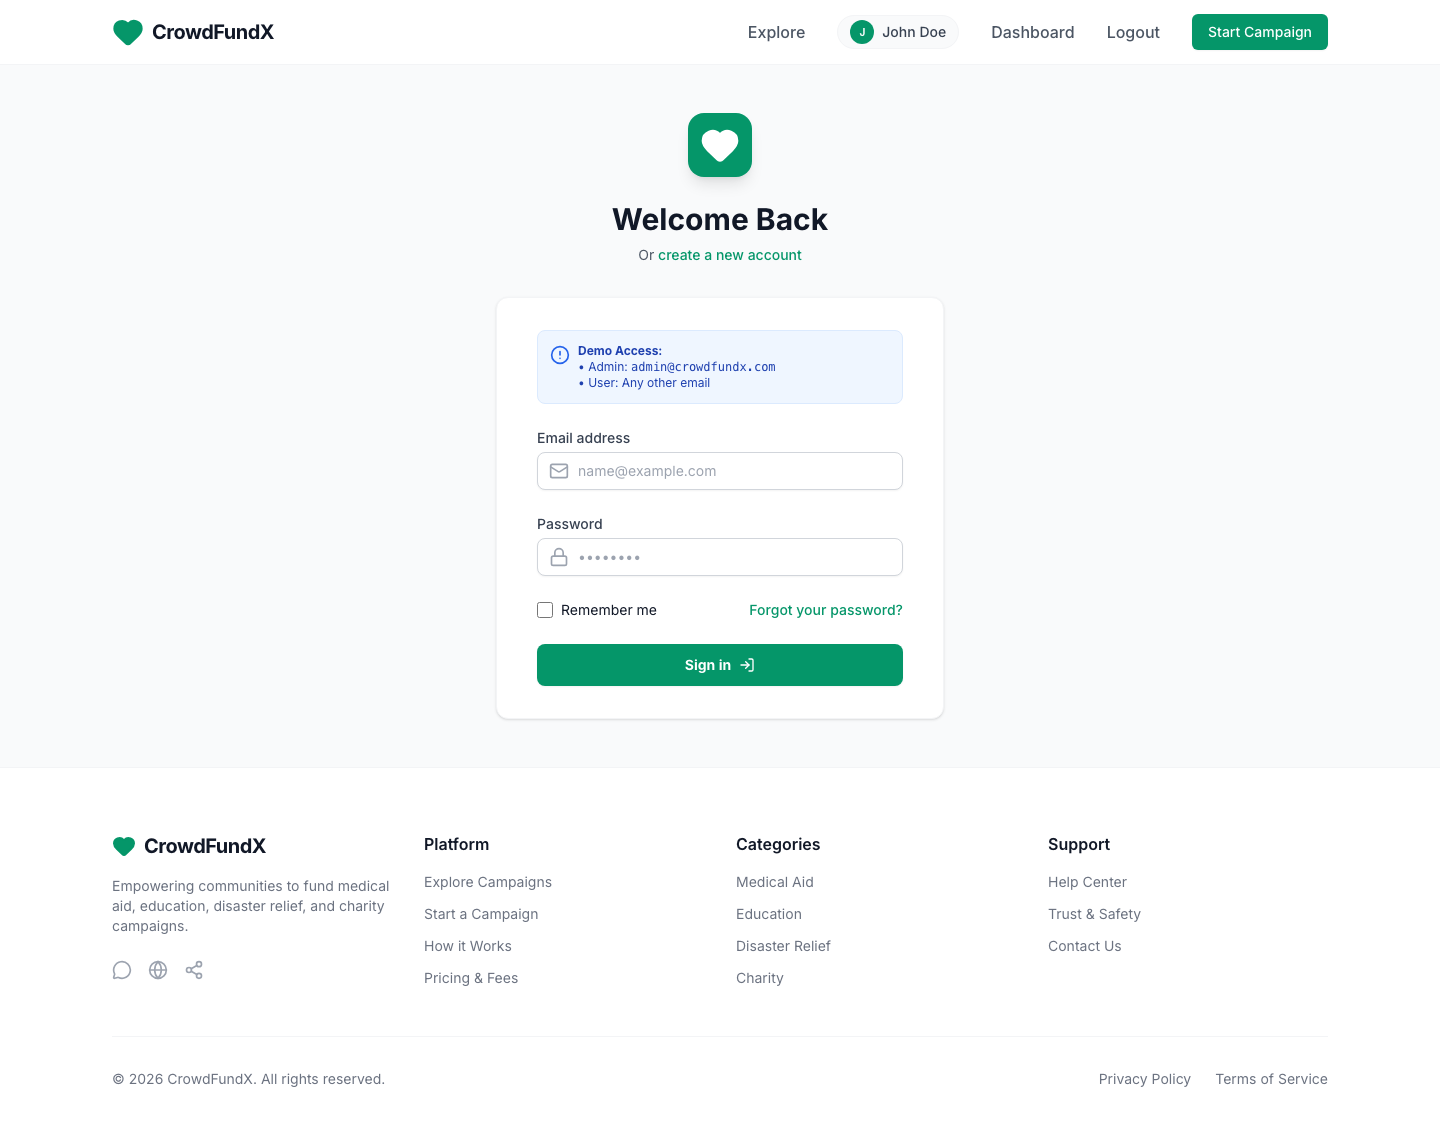
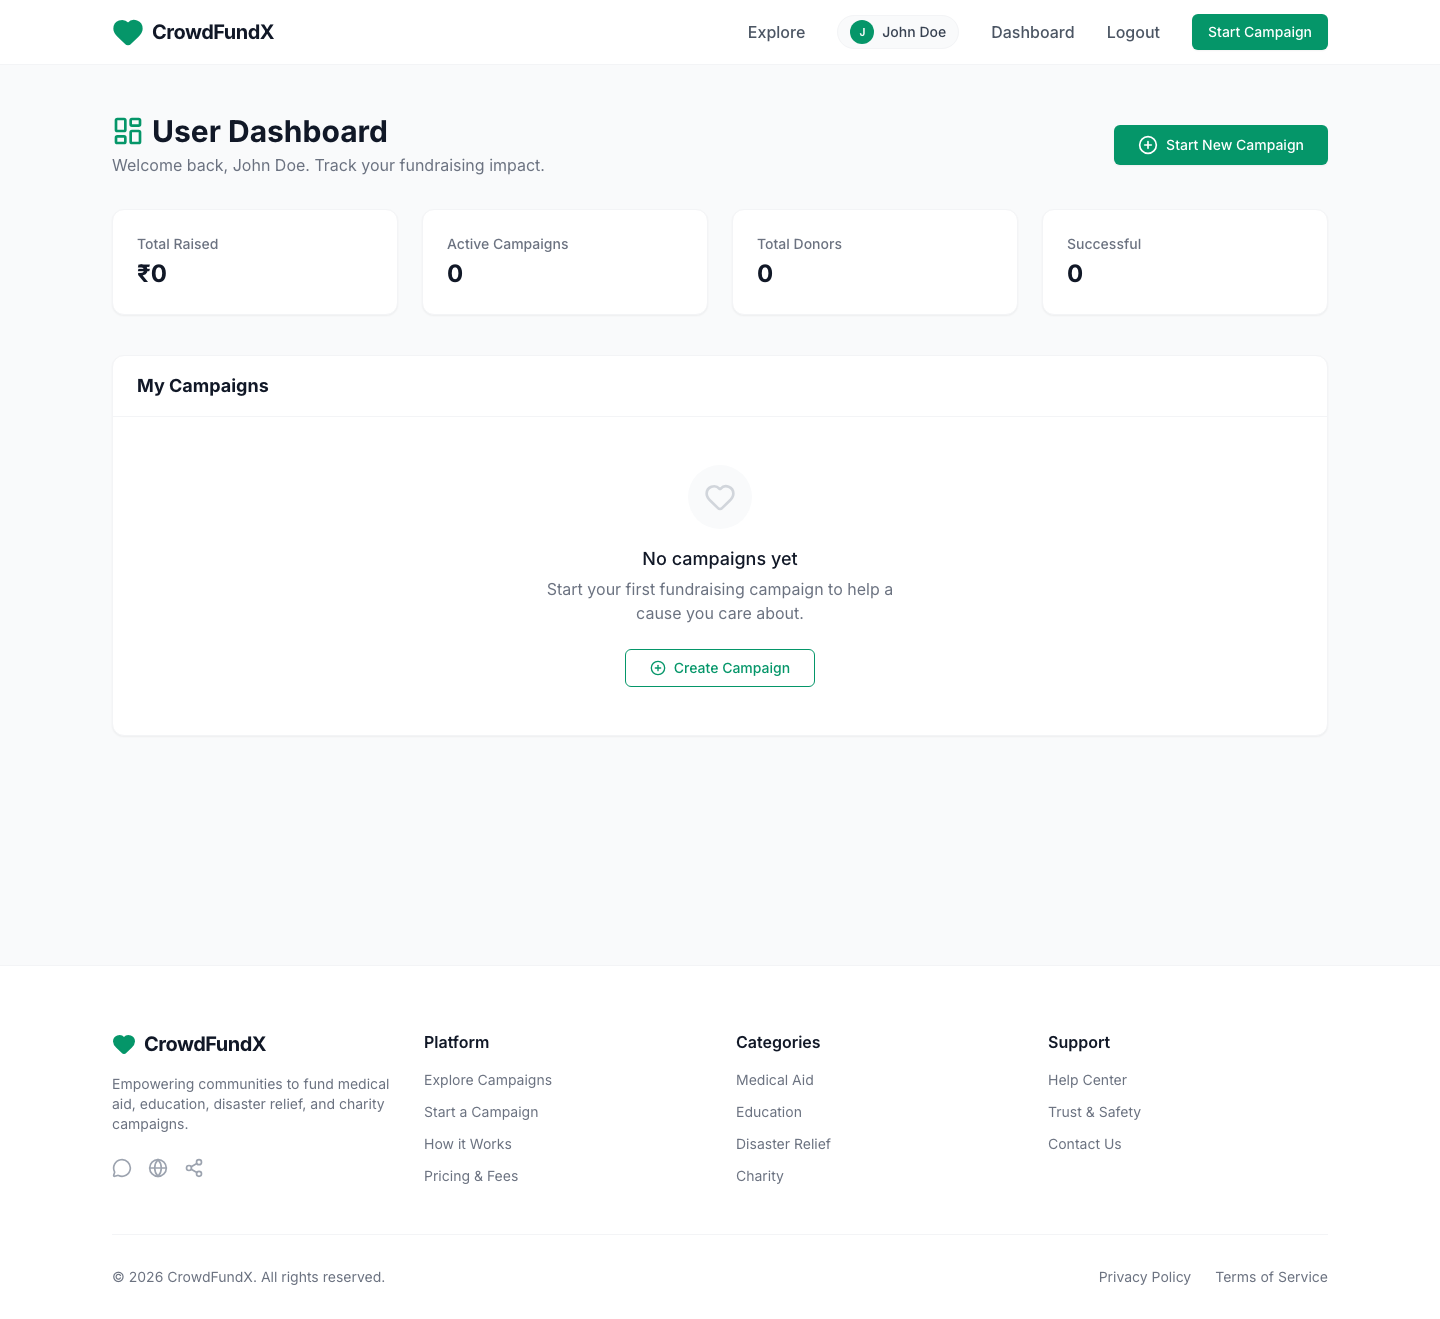
refactor: implement authentication loading states across pages and add pending campaigns to initial data

diff --git a/frontend/src/data/initialData.js b/frontend/src/data/initialData.js
@@ -72,6 +72,34 @@ export const initialCampaigns = [
     image: "https://images.unsplash.com/photo-1550751827-4bd374c3f58b?auto=format&fit=crop&q=80&w=1000",
     createdAt: new Date().toISOString(),
     updates: []
+  },
+  {
+    id: "6",
+    title: "Support for Tribal Artisans in Bastar",
+    description: "Our initiative aims to provide modern tools and market access to tribal artisans in Bastar, Chhattisgarh. We need funds to set up a community workshop and conduct training sessions on sustainable crafting techniques.",
+    goal: 450000,
+    raised: 0,
+    donors: 0,
+    category: "Other",
+    status: "Pending",
+    creator: { id: "u6", name: "Sita Marandi" },
+    image: "https://images.unsplash.com/photo-1544650039-22886fbb4323?auto=format&fit=crop&q=80&w=1000",
+    createdAt: new Date().toISOString(),
+    updates: []
+  },
+  {
+    id: "7",
+    title: "Mobile Medical Van for Rural Villages",
+    description: "Many villages in remote areas lack basic healthcare facilities. We are raising funds to purchase and equip a mobile medical van that will travel to these villages twice a week, providing free checkups and essential medicines.",
+    goal: 1200000,
+    raised: 0,
+    donors: 0,
+    category: "Medical",
+    status: "Pending",
+    creator: { id: "u7", name: "Health For All NGO" },
+    image: "https://images.unsplash.com/photo-1516549655169-df83a0774514?auto=format&fit=crop&q=80&w=1000",
+    createdAt: new Date().toISOString(),
+    updates: []
   }
 ];
 

diff --git a/frontend/src/pages/DashboardPage.jsx b/frontend/src/pages/DashboardPage.jsx
@@ -5,12 +5,14 @@ import { api } from '../services/api';
 import { LayoutDashboard, Heart, PlusCircle, ExternalLink, Clock, CheckCircle2, AlertCircle } from 'lucide-react';
 
 export const DashboardPage = () => {
-  const { user } = useAppContext();
+  const { user, loading: authLoading } = useAppContext();
   const navigate = useNavigate();
   const [campaigns, setCampaigns] = useState([]);
   const [loading, setLoading] = useState(true);
 
   useEffect(() => {
+    if (authLoading) return;
+    
     if (!user) {
       navigate('/login');
       return;
@@ -30,6 +32,7 @@ export const DashboardPage = () => {
     fetchMyCampaigns();
   }, [user, navigate]);
 
+  if (authLoading) return null;
   if (!user) return null;
 
   const totalRaised = campaigns.reduce((acc, curr) => acc + curr.raised, 0);

diff --git a/frontend/src/pages/AdminPanel.jsx b/frontend/src/pages/AdminPanel.jsx
@@ -5,13 +5,15 @@ import { api } from '../services/api';
 import { ShieldCheck, Check, X, AlertTriangle, ExternalLink, Clock } from 'lucide-react';
 
 export const AdminPanel = () => {
-  const { user } = useAppContext();
+  const { user, loading: authLoading } = useAppContext();
   const navigate = useNavigate();
   const [pendingCampaigns, setPendingCampaigns] = useState([]);
   const [loading, setLoading] = useState(true);
   const [processingId, setProcessingId] = useState(null);
 
   useEffect(() => {
+    if (authLoading) return;
+
     if (!user || user.role !== 'ADMIN') {
       navigate('/');
       return;
@@ -42,6 +44,7 @@ export const AdminPanel = () => {
     }
   };
 
+  if (authLoading) return null;
   if (!user || user.role !== 'ADMIN') return null;
 
   return (

diff --git a/frontend/src/pages/CreateCampaignPage.jsx b/frontend/src/pages/CreateCampaignPage.jsx
@@ -6,7 +6,7 @@ import { categories } from '../data/initialData';
 import { UploadCloud, CheckCircle } from 'lucide-react';
 
 export const CreateCampaignPage = () => {
-  const { user } = useAppContext();
+  const { user, loading: authLoading } = useAppContext();
   const navigate = useNavigate();
   const [loading, setLoading] = useState(false);
   const [success, setSuccess] = useState(false);
@@ -45,6 +45,8 @@ export const CreateCampaignPage = () => {
     }
   };
 
+  if (authLoading) return null;
+  
   if (!user) {
     return (
       <div className="min-h-screen bg-gray-50 py-20 flex justify-center">
